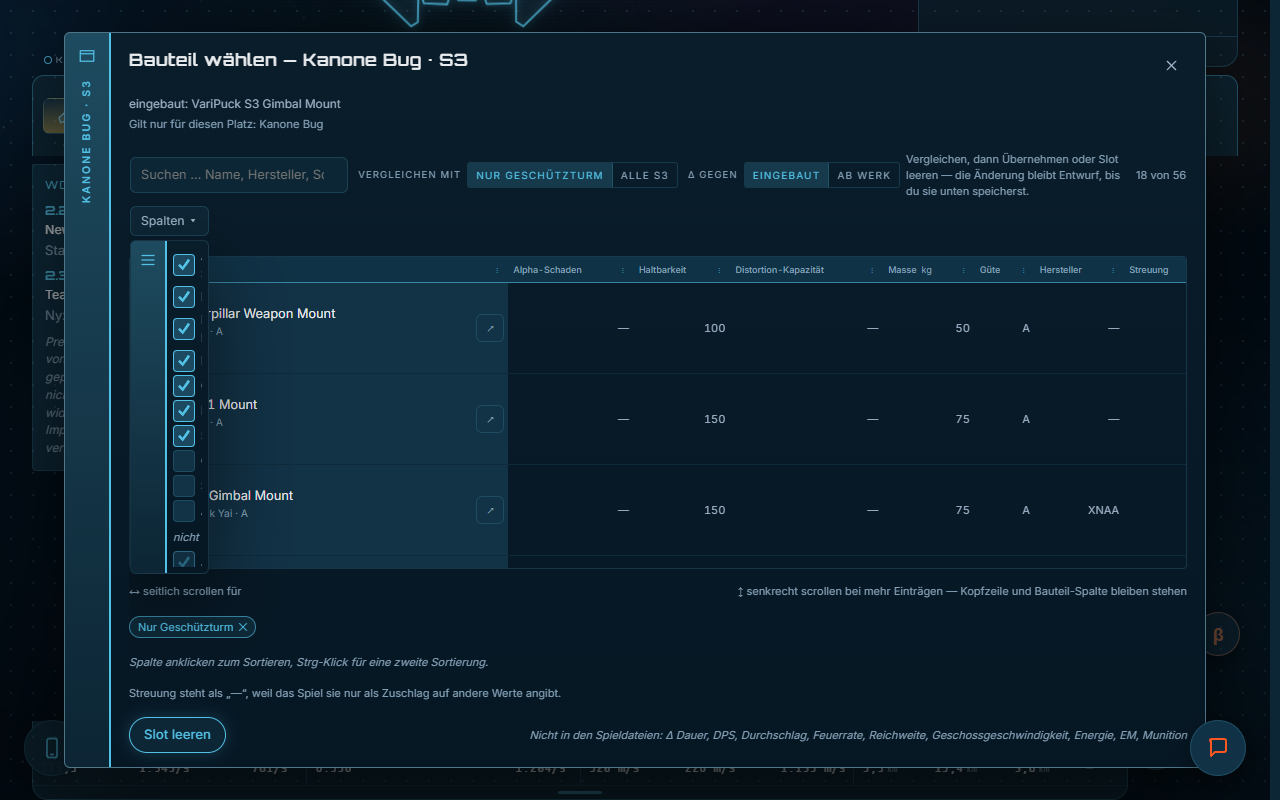
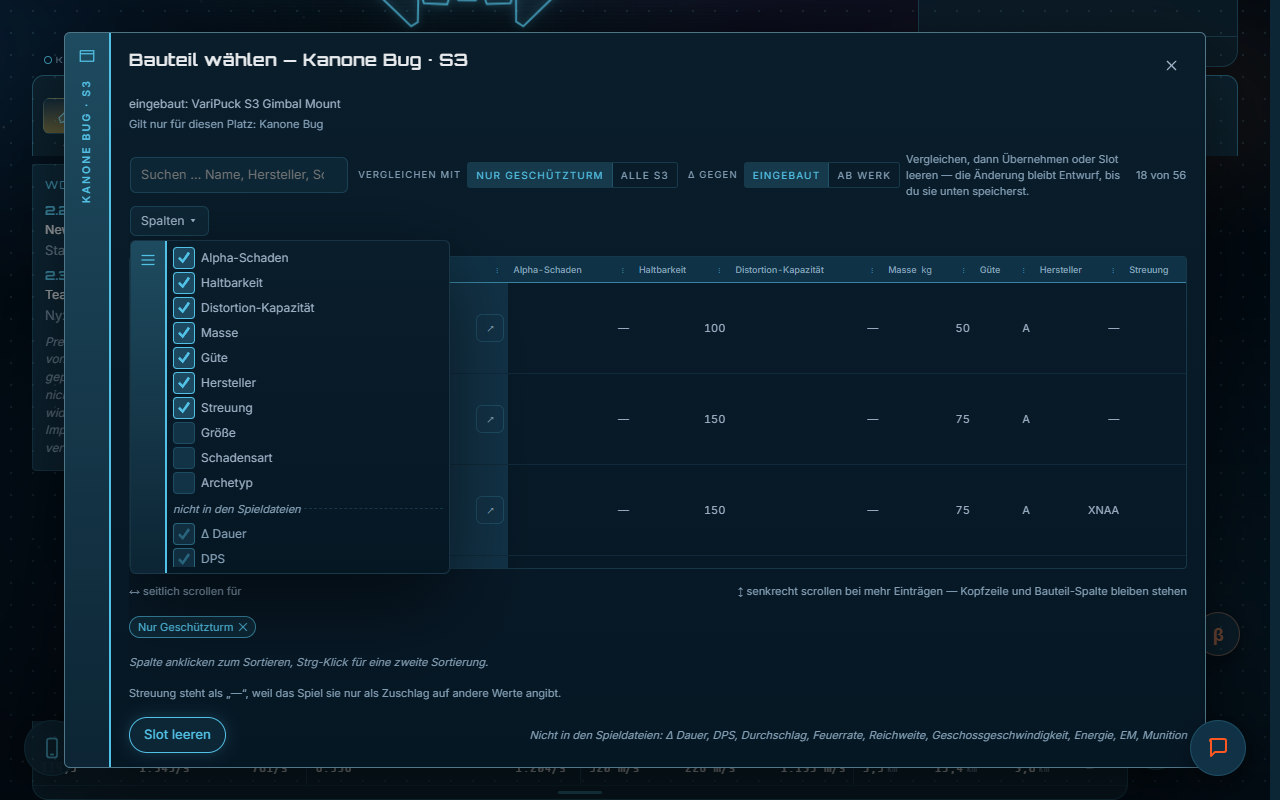
fix(popup): swap picker on phones - toolbar column no longer wraps into a second off-screen column, column menu opens inline at toolbar width

Changed region(s): [[0.125, 0.3125, 0.375, 0.7188]]

diff --git a/src/app/codex/codex-swap-picker.component.ts b/src/app/codex/codex-swap-picker.component.ts
@@ -548,8 +548,12 @@ function unitKeyFor(key: string, def: SwapValueDef): string | null {
     .pick-cols-sum:focus-visible, .pc-reset:focus-visible, .fc button:focus-visible { outline: 2px solid var(--sc-accent); outline-offset: 2px; }
     .pick-cols-sum::-webkit-details-marker { display: none; }
     .pick-cols-pop { position: absolute; top: calc(100% + 4px); left: 0; z-index: 6;
-      /* The host is capped at its containing block (the narrow button): give it the menu width, so labels are not cut off. */
-      inline-size: min(var(--sc-ov-menu), calc(100vw - 2 * var(--sc-space-4))); }
+      /* The host is capped at its containing block (the narrow button, .sc-popup caps it at 100%): give it the menu width, so labels are not cut off. */
+      inline-size: min(var(--sc-ov-menu), calc(100vw - 2 * var(--sc-space-4))); max-inline-size: none; }
+    /* Phone: the menu opens inline below the button (full toolbar width) instead of hanging off the screen edge. */
+    @media (max-width: 720px) {
+      .pick-cols-pop { position: static; inline-size: 100%; margin-top: var(--sc-space-1); }
+    }
     .pc-body { display: flex; flex-direction: column; gap: 3px; max-height: min(320px, 45dvh); overflow-y: auto; }
     .pc-row { display: flex; align-items: center; gap: 6px; font-size: 12px; cursor: pointer; }
     .pc-row.off { color: var(--sc-fg-2); cursor: not-allowed; }
@@ -652,8 +656,11 @@ function unitKeyFor(key: string, def: SwapValueDef): string | null {
     .pick-missing { margin: 0; font-size: 11px; color: var(--sc-fg-2); font-style: italic; }
 
     @media (max-width: 720px) {
-      .pick-scope { flex-direction: column; align-items: stretch; }
-      .pick-count, .pick-cols { align-self: flex-start; }
+      .pick-scope { flex-direction: column; flex-wrap: nowrap; align-items: stretch; }
+      .pick-search { flex: 0 0 auto; min-width: 0; max-inline-size: 100%; }
+      .pick-count { align-self: flex-start; }
+      .pick-cols { align-self: stretch; min-inline-size: 0; }
+      .pick-cols-sum { align-self: flex-start; }
       .pick-count { margin-left: 0; }
     }
   `],
